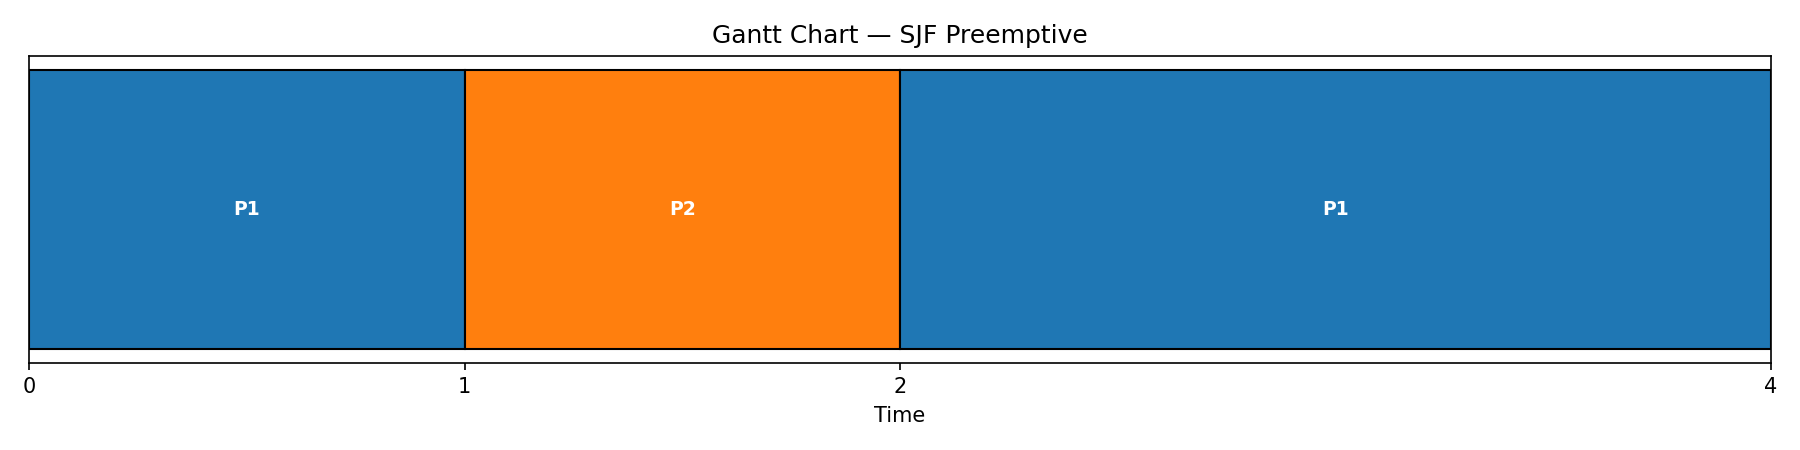
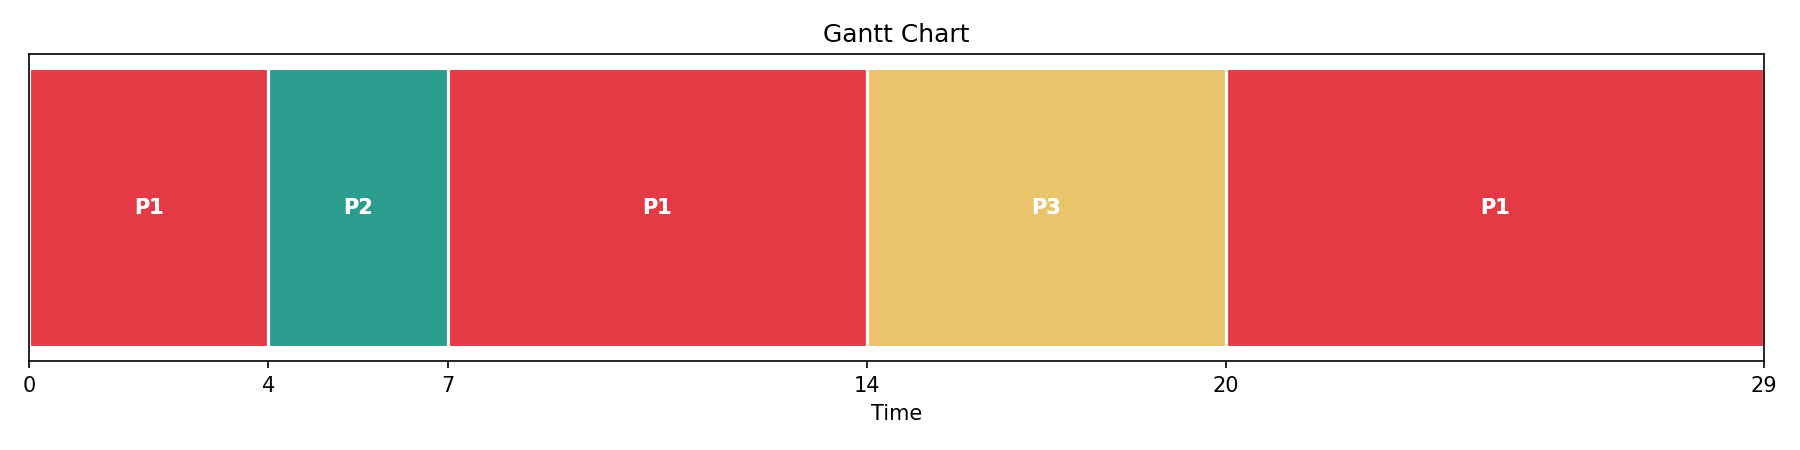
Priority Schedular with dynamic adding

diff --git a/schedulers_simulator/preemptive_priority.py b/schedulers_simulator/preemptive_priority.py
@@ -1,0 +1,136 @@
+import heapq
+from Process import Process
+from gantt_chart import redraw_gantt
+import matplotlib.pyplot as plt
+import time
+import copy
+
+
+
+def preemptive_priority_scheduler(process_list: list[Process], new_process_queue = None,live_sim: bool = False,pause_event = None, fig = None, ax = None)->tuple[list, int, float, float]:
+    process_list = copy.deepcopy(process_list)
+
+    #sort by arrival time, priority in case of same arrival time
+    #last element=first to be executed
+    process_list.sort(key=lambda x:(x.arrival_time,x.priority,x.num),reverse=True) 
+    current_time=0
+    ready_queue=[] 
+    no=len(process_list)
+    total_waiting_time = 0
+    total_turnaround_time = 0
+    history=[]
+
+
+    #for tracking
+    prev_process=None
+    start_time=0
+
+    while process_list or ready_queue:
+
+        #dynamic-adding
+        if live_sim:
+            if pause_event:
+                pause_event.wait()
+            
+            if new_process_queue:
+                added_new = False
+                while not new_process_queue.empty():
+                    new_p = new_process_queue.get()
+                    new_p.arrival_time = current_time + new_p.arrival_time
+                    process_list.append(new_p)
+                    no += 1  # Update total count for averages
+                    added_new = True
+                    print(f"\n [+] P{new_p.num} joined the simulation!")
+                
+                # If we added processes, we MUST re-sort the list so they pop in the correct order!
+                if added_new:
+                    process_list.sort(key=lambda x:(x.arrival_time,x.priority,x.num),reverse=True)
+
+
+        while process_list and process_list[-1].arrival_time<=current_time:
+            available_process=process_list.pop()
+            #push to minimum heap, ordered based on priority then arrival time then id
+            heapq.heappush(ready_queue,available_process)
+            
+        #idle time, no available processes yet    
+        if not ready_queue:
+            if prev_process is not None:
+                print(f"Time {start_time:2d} -> {current_time:2d} : Process {prev_process.num} (Completed)")
+                prev_process = None
+            current_time+=1
+
+            if history and history[-1][0] == "Idle":
+                # If we were already idle, stretch the idle block
+                history[-1] = ("Idle", history[-1][1], current_time)
+            else:
+                # If we just became idle, create a new idle block
+                history.append(("Idle", current_time - 1, current_time))
+            if live_sim:
+                time.sleep(1)
+                redraw_gantt(ax, history)
+                fig.canvas.draw()
+                fig.canvas.flush_events()
+
+            continue
+
+        current_process=heapq.heappop(ready_queue)
+
+        #check for switching
+        if prev_process != current_process:
+            if prev_process is not None:
+                #print previous process in case of switching
+                state = "Completed" if prev_process.burst_time == 0 else f"Preempted, Remaining time: {prev_process.burst_time}"
+                print(f"Time {start_time:2d} -> {current_time:2d} : Process {prev_process.num} ({state})")
+            
+            #start new process
+            start_time=current_time
+            prev_process=current_process
+
+        #execute for 1 time unit
+        current_process.burst_time-=1
+        current_time+=1
+
+        #Record for the Gantt Chart
+        if history and history[-1][0] == current_process.num:
+            # If it's the same process, just stretch the end time
+            history[-1] = (history[-1][0], history[-1][1], current_time)
+        else:
+            # If it's a new process, create a new block
+            history.append((current_process.num, current_time - 1, current_time))
+
+        if live_sim:
+            time.sleep(1)
+            redraw_gantt(ax, history)
+            fig.canvas.draw()
+            fig.canvas.flush_events()            
+
+
+        if(current_process.burst_time>0):
+            heapq.heappush(ready_queue,current_process)
+        else:
+            current_process.turn_around_time = current_time - current_process.arrival_time
+            current_process.waiting_time = current_process.turn_around_time - current_process.original_burst_time
+            current_process.finish_time=current_time
+            total_turnaround_time+=current_process.turn_around_time 
+            total_waiting_time+=current_process.waiting_time
+
+    if prev_process is not None:
+        state = "Completed" if prev_process.burst_time == 0 else f"Preempted, Remaining time: {prev_process.burst_time}"
+        print(f"Time {start_time:2d} -> {current_time:2d} : Process {prev_process.num} ({state})")
+    average_turnaround_time=float(total_turnaround_time/no)
+    average_waiting_time=float(total_waiting_time/no)
+    return (history, current_time,average_turnaround_time, average_waiting_time)
+
+
+
+
+
+
+
+
+
+
+
+
+
+        

diff --git a/schedulers_simulator/main.py b/schedulers_simulator/main.py
@@ -3,6 +3,7 @@ from Process import Process
 from gantt_chart import draw_gantt
 from SJF import sjf_preemptive
 from round_robin import RoundRobinScheduler
+from preemptive_priority import preemptive_priority_scheduler
 import threading
 from queue import Queue
 import sys
@@ -81,11 +82,12 @@ SCHEDULER_FUNCTIONS = {
     "SJF (Preemptive)":          sjf_preemptive,
     "Round Robin":               RoundRobinScheduler().runRoundRobin,
     "Priority (Non-Preemptive)": None,
-    "Priority (Preemptive)":     None,
+    "Priority (Preemptive)":     preemptive_priority_scheduler,
 }
 
 
 def pause_event_handler(selected_algo: str, processes_list: list[Process], new_process_queue, pause_event, stop_event):
+    current_id=len(processes_list)
     while not stop_event.is_set():
         
         input()
@@ -95,12 +97,14 @@ def pause_event_handler(selected_algo: str, processes_list: list[Process], new_p
             print("\n Simulation is paused")
             print(" [A] : add a new process")
             print(" [R] : Resume the simulation")
-            i = 0
+            #i = 0
             while True:
                 choice = input(" Choice : ").strip().upper()
                 if(choice == "A"):
-                    num = len(processes_list) + i + 1
-                    i+=1
+                    # num = len(processes_list) + i + 1
+                    # i+=1
+                    current_id+=1
+                    num=current_id
 
                     print("please note the arrival time will be considered from this second")
                     arrival_time = get_valid_number((f"Enter the arrival time: "))
@@ -110,7 +114,7 @@ def pause_event_handler(selected_algo: str, processes_list: list[Process], new_p
                     if "Priority" in selected_algo:
                         priority = get_valid_number("Priority Level : ")
                     
-                    new_p = Process(num, 0, burst_time, priority)
+                    new_p = Process(num, arrival_time, burst_time, priority)
                     new_process_queue.put(new_p)
                     print(f" p{new_p.num} is added successfully.")
                 elif(choice == "R"):

diff --git a/schedulers_simulator/Process.py b/schedulers_simulator/Process.py
@@ -16,3 +16,11 @@ class Process:
         self.isFinished : bool | None = False
         self.start_time : int | None = None
         self.finish_time : int | None = None
+
+        #preemptive_priority
+        self.original_burst_time = burst_time
+
+    #tells heapq how to sort processes
+    def __lt__(self, other): #less than
+        return (self.priority, self.arrival_time, self.num) <\
+                (other.priority, other.arrival_time, other.num)